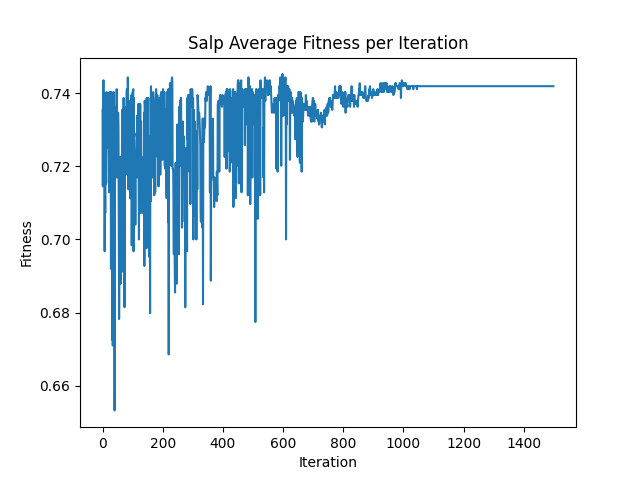
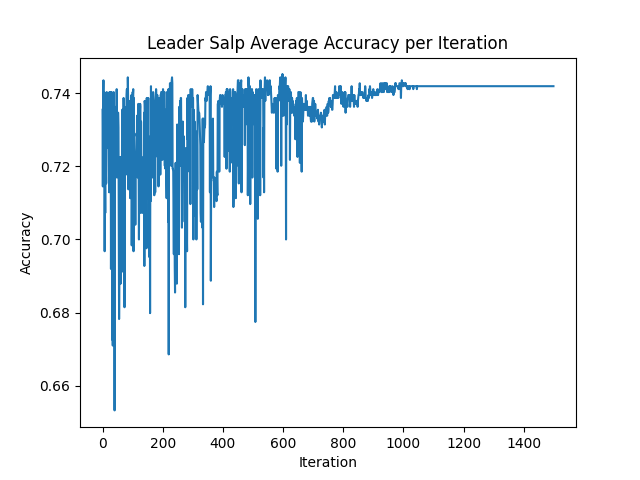
update charts

Changed region(s): [[0.2188, 0.0625, 0.7812, 0.125], [0.0312, 0.4375, 0.0625, 0.5625]]

diff --git a/SalpSwarm/charts/plot_fit.py b/SalpSwarm/charts/plot_fit.py
@@ -6,21 +6,6 @@ import sys
 import os
 
 
-def plotScatter(testName, iterations, plotName="plot"):
-    print('scatter')
-    for i in range(len(iterations)):
-        fig, ax = plt.subplots()
-        plt.title("Ackley Distribution per Generation (Scatter)")
-        plt.xlabel("Generation")
-        plt.ylabel("Ackley")
-        x_values = iterations[i][0]
-        y_values = iterations[i][1]
-        ax.scatter(x_values, y_values)
-        ax.set_xticks(x_values)
-        plt.savefig('{}/scatter/{}{}.png'.format(testName, plotName, i))
-        plt.close()
-
-
 def plotHist2d(testName, iterations, plotName="plot"):
     print('hist2d')
 
@@ -30,9 +15,9 @@ def plotHist2d(testName, iterations, plotName="plot"):
         for value in iterations[it]:
             x_values.append(it)
             y_values.append(value)
-    plt.title("Salm Fitness Distribution per Iteration (Histogram)")
+    plt.title("Leader Salp Accuracy Distribution per Iteration")
     plt.xlabel("Iteration")
-    plt.ylabel("Fitness")
+    plt.ylabel("Accuracy")
 
     plt.hist2d(x_values, y_values, cmap=plt.cm.Blues,
                bins=(len(set(x_values)), 20))
@@ -53,9 +38,9 @@ def plotLine(testName, iterations, plotName="plot"):
         y_values.append(sum(iterations[it])/len(iterations[it]))
         best_values.append(min(iterations[it]))
         worst_values.append(max(iterations[it]))
-    plt.title("Salp Average Fitness per Iteration")
+    plt.title("Leader Salp Average Accuracy per Iteration")
     plt.xlabel("Iteration")
-    plt.ylabel("Fitness")
+    plt.ylabel("Accuracy")
 
     plt.plot(x_values, y_values)
     # plt.plot(x_values, best_values)

diff --git a/SalpSwarm/SalpSwarm/Main.java b/SalpSwarm/SalpSwarm/Main.java
@@ -21,10 +21,10 @@ public class Main {
     static int outputSize;
 
     public static void main(String[] args) {
-        run20(new Haberman());
+        // run20(new Haberman());
         run20(new Cancer());
         // run20(new Liver());
-        run20(new Thyroid());
+        // run20(new Thyroid());
     }
 
     // public static void run20(ExecutionDetails details) {
